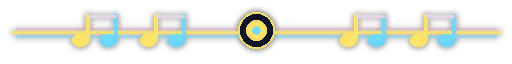
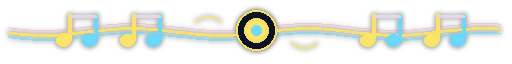
Add new SoftMG/Baroque game-UI chrome assets so live pages resolve
Commits the 26 new chrome PNGs (SoftMG, Baroque, GradeHalo, SkillRing, ComboBurst, GothicFrame, ScrollBorder, SheetParchment) plus updated FiligreeCorner/Divider/StaffTile and ART_SOURCE.json that the live CSS already references. Previously untracked, so the Melusina and gameplay-loop pages would 404 on the new chrome. Also drops a stale deprecated-component name from an application-hub.css comment.

diff --git a/wix/application-hub.css b/wix/application-hub.css
@@ -792,6 +792,21 @@
   .world-card::after { animation: none !important; transform: none !important; }
 }
 
+/* Melodia gothic rail — recruiter polish (GothicFrame chrome, Melodia-original) */
+.hub-gothic-rail {
+  display: block;
+  width: min(28rem, 88%);
+  height: 2rem;
+  margin: 0.35rem 0 0.85rem;
+  background: url("../generated/assets/melodia-game-ui/T_Melodia_GothicFrameRail.png") left center / contain no-repeat;
+  opacity: 0.88;
+  filter: drop-shadow(0 0 10px rgba(102, 224, 255, 0.2));
+}
+
+.melodia-shell[data-mg="off"] .hub-gothic-rail {
+  display: none;
+}
+
 @media (max-width: 680px) {
   .data-row,
   .concept-list { grid-template-columns: 1fr; }